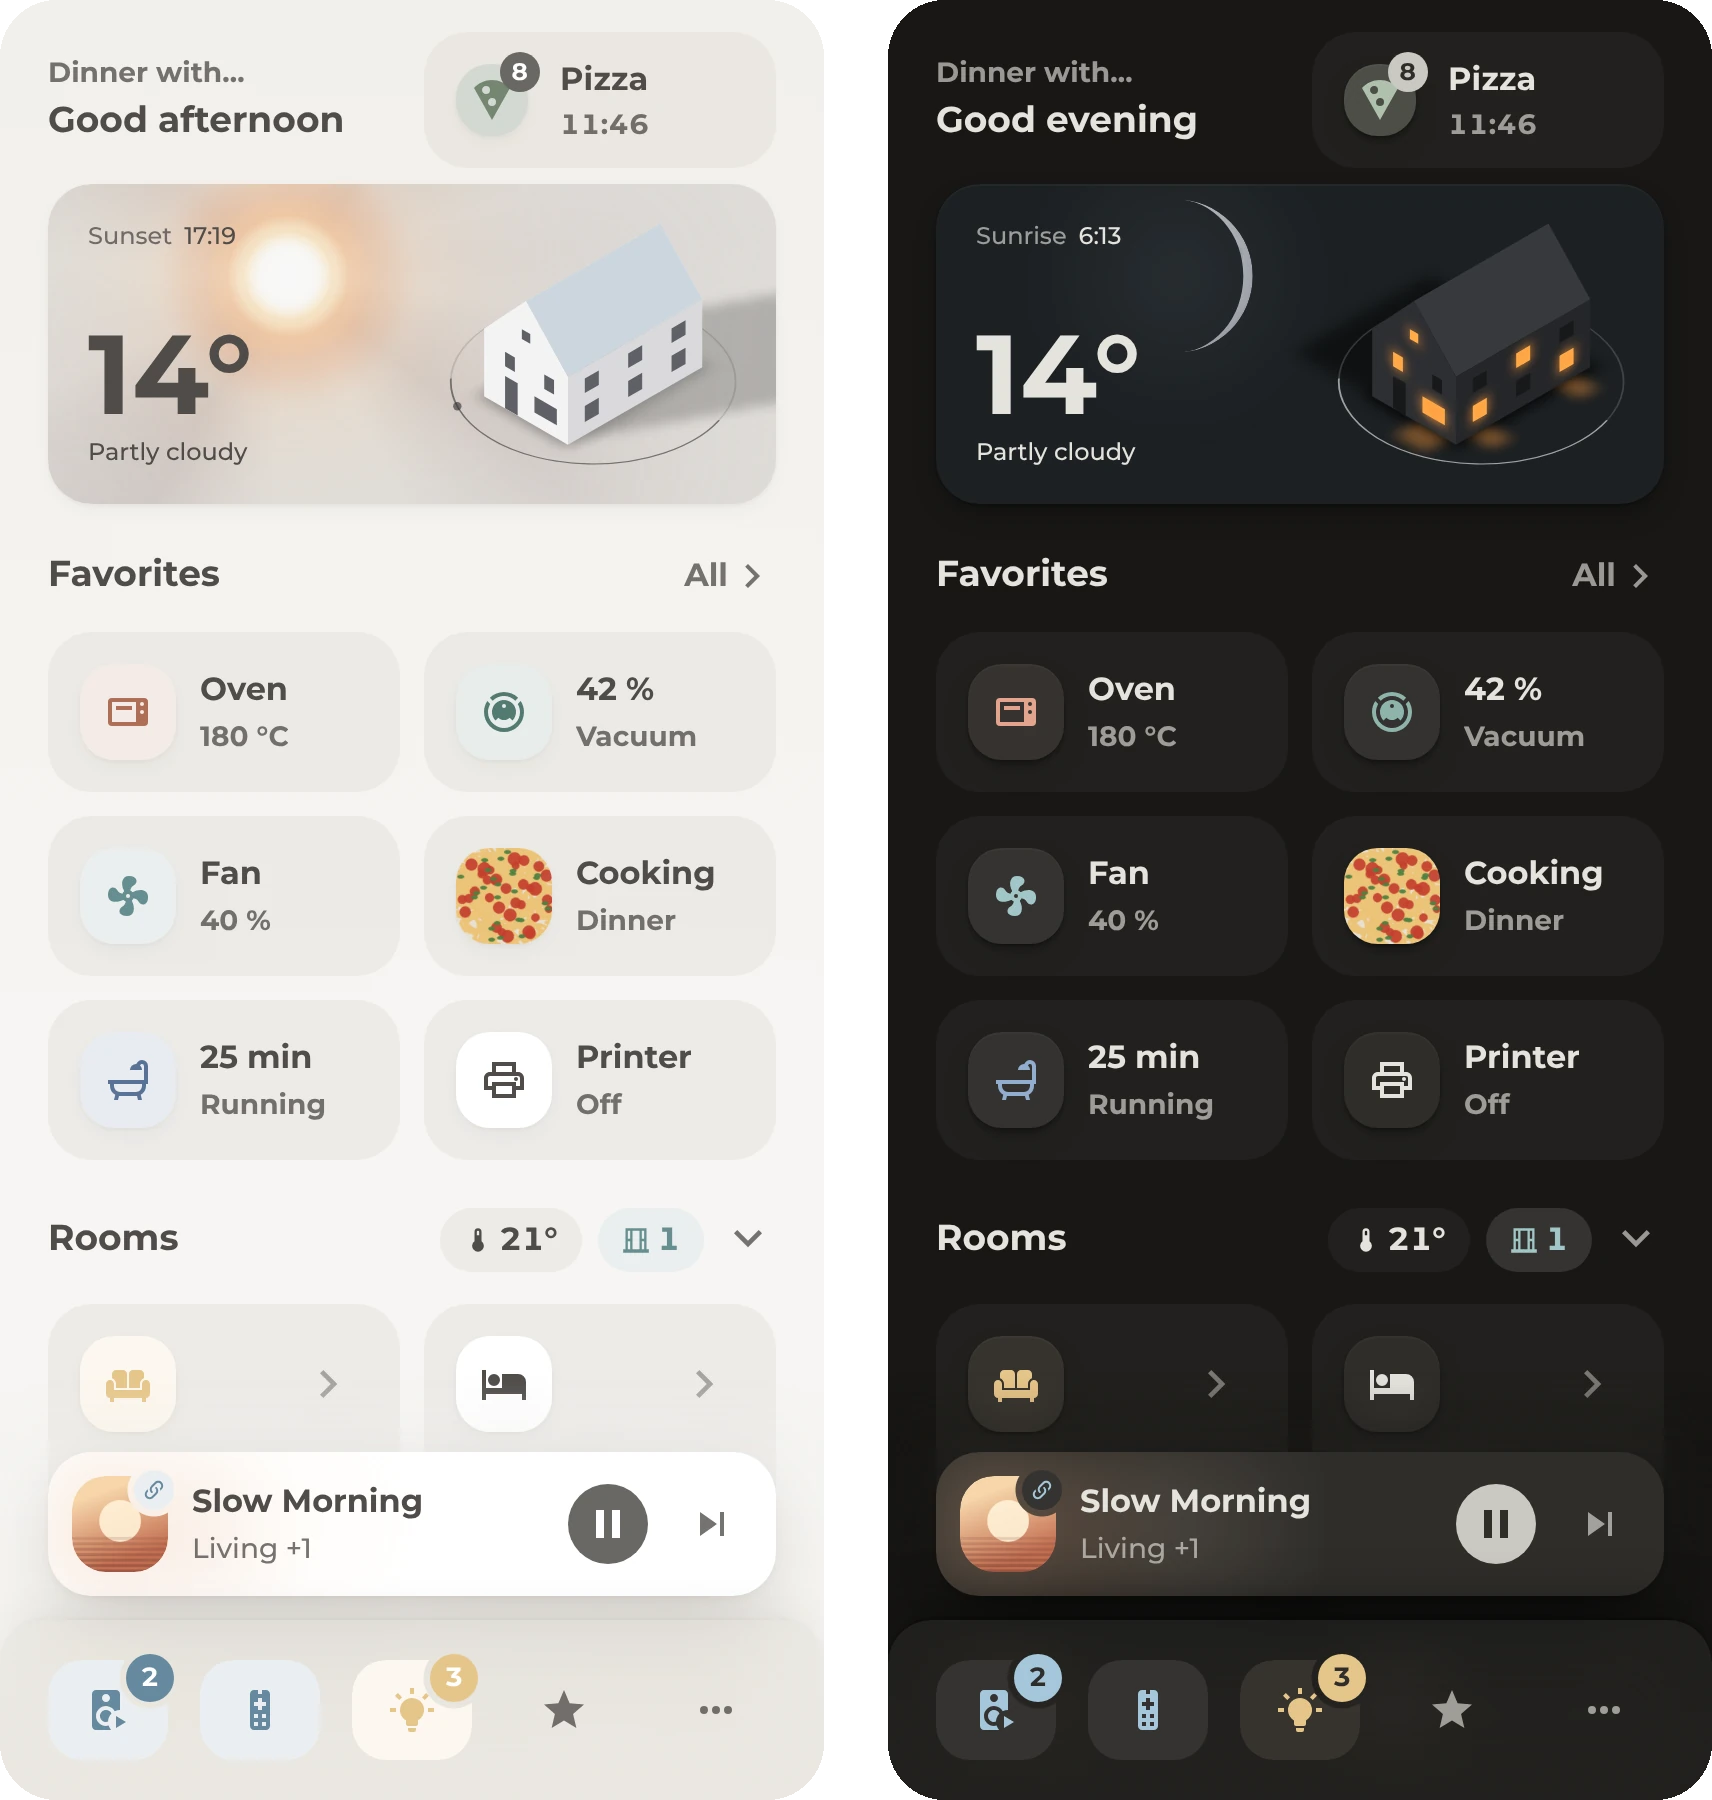
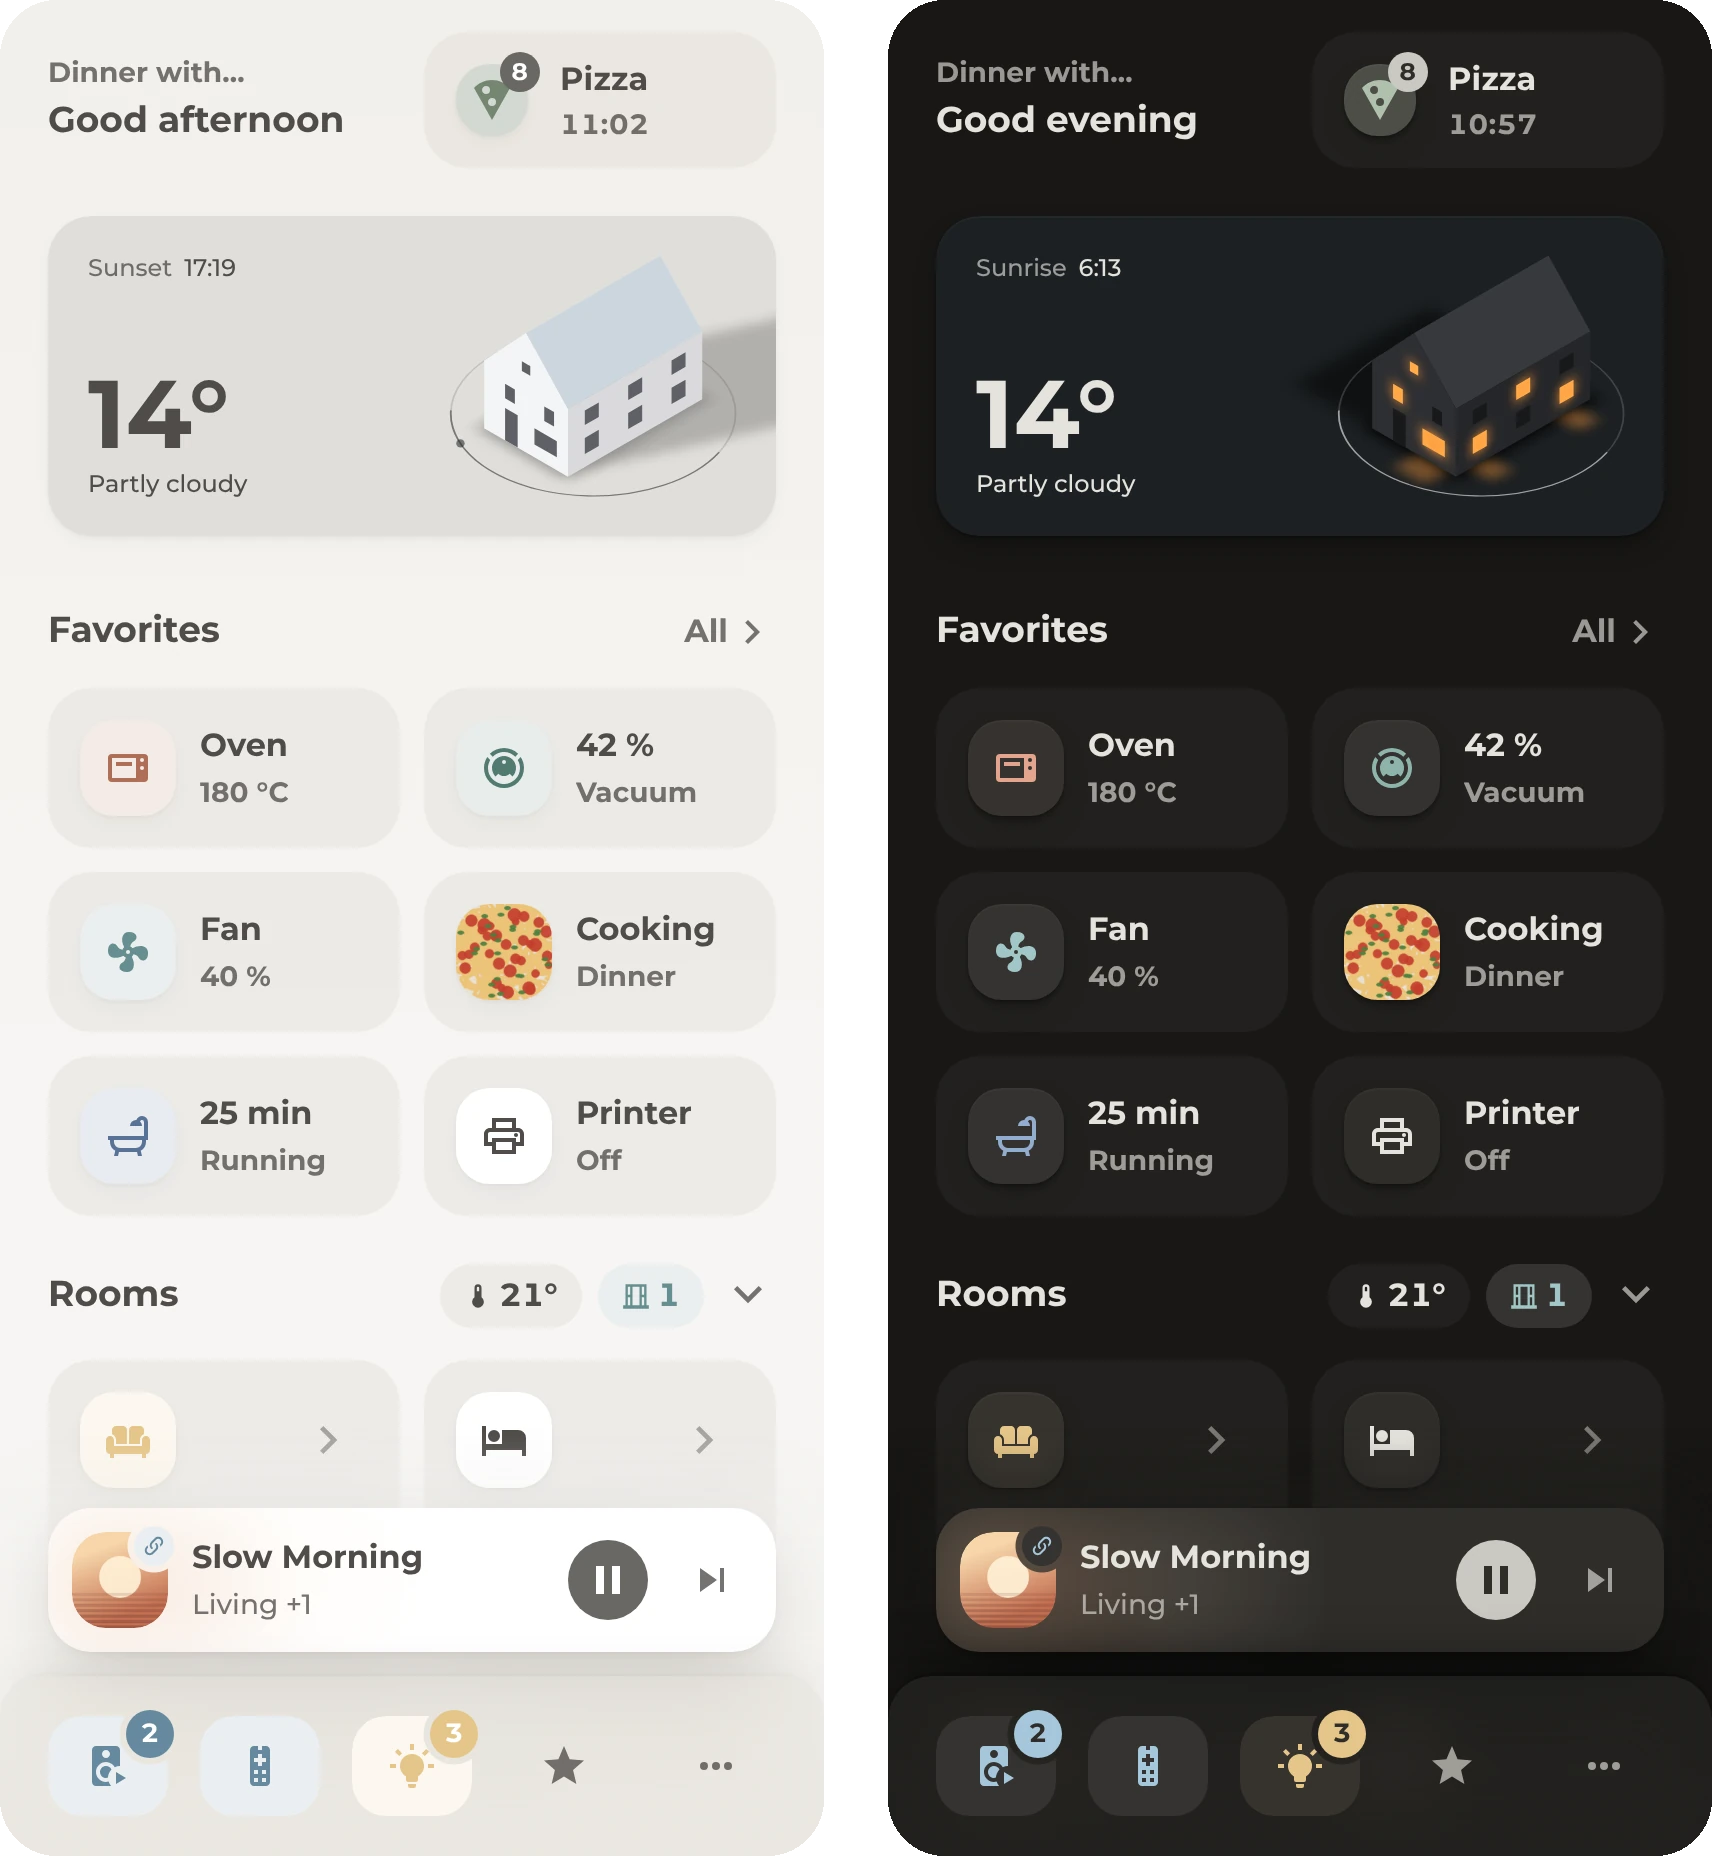
Calmer weather card, Paper Buttons Row up front
The weather card gets its offset back, drops the sun and moon, and the
temperature goes down to 48 px. The readme and docs say what the name
means: the dashboard is folded mostly out of Paper Buttons Row. The
font files in www/fonts stay under their own license.

diff --git a/README.md b/README.md
@@ -1,13 +1,13 @@
 # ◪ Origami
 
-A chill Home Assistant theme, a set of Bubble Card modules made for it, and the dashboard built from both.
+A chill Home Assistant theme, and a dashboard folded mostly out of [Paper Buttons Row](https://github.com/jcwillox/lovelace-paper-buttons-row), hence the name. Plus a set of Bubble Card modules made for the theme.
 
 <img width="760" alt="The Origami dashboard on a phone, in light and dark mode" src="https://raw.githubusercontent.com/hazymorning/origami/main/images/dashboard.webp">
 
 | | |
 | --- | --- |
 | **Theme** | Soft, warm surfaces in light and dark, and colour only where something is on. Works with any dashboard. |
-| **Dashboard** | Weather, favorites, rooms and a navbar, made for phones. Nothing jumps while it loads. |
+| **Dashboard** | Weather, favorites, rooms and a navbar for phones, mostly Paper Buttons Row. Nothing jumps while it loads. |
 | **Bubble modules** | The theme's look for Bubble Card. Still experimental. |
 
 > [!NOTE]
@@ -65,9 +65,9 @@ Open each one, confirm with **Add** if asked, then **Download**.
 | | For | |
 | --- | --- | --- |
 | [Origami](https://github.com/hazymorning/origami) | The theme | [Open in HACS](https://my.home-assistant.io/redirect/hacs_repository/?owner=hazymorning&repository=origami&category=theme) |
+| [Paper Buttons Row](https://github.com/jcwillox/lovelace-paper-buttons-row) | Most of the dashboard: greeting, menu, climate table and room cards | [Open in HACS](https://my.home-assistant.io/redirect/hacs_repository/?owner=jcwillox&repository=lovelace-paper-buttons-row&category=plugin) |
 | [Bubble Card](https://github.com/Clooos/Bubble-Card) | Favorites and section headers | [Open in HACS](https://my.home-assistant.io/redirect/hacs_repository/?owner=Clooos&repository=Bubble-Card&category=plugin) |
 | [Bubble Card Tools](https://github.com/Clooos/Bubble-Card-Tools) | Loads the Bubble modules | [Open in HACS](https://my.home-assistant.io/redirect/hacs_repository/?owner=Clooos&repository=Bubble-Card-Tools&category=integration) |
-| [Paper Buttons Row](https://github.com/jcwillox/lovelace-paper-buttons-row) | Greeting, climate table and room cards | [Open in HACS](https://my.home-assistant.io/redirect/hacs_repository/?owner=jcwillox&repository=lovelace-paper-buttons-row&category=plugin) |
 | [Navbar Card](https://github.com/joseluis9595/lovelace-navbar-card) | The bar at the bottom | [Open in HACS](https://my.home-assistant.io/redirect/hacs_repository/?owner=joseluis9595&repository=lovelace-navbar-card&category=plugin) |
 | [Origami Notifications](https://github.com/hazymorning/origami_notifications) | Notifications next to the greeting | [Open in HACS](https://my.home-assistant.io/redirect/hacs_repository/?owner=hazymorning&repository=origami_notifications&category=plugin) |
 | [Origami Weather](https://github.com/hazymorning/origami_weather) | The weather card | [Open in HACS](https://my.home-assistant.io/redirect/hacs_repository/?owner=hazymorning&repository=origami_weather&category=plugin) |
@@ -172,7 +172,7 @@ Add `https://fonts.googleapis.com/css2?family=Montserrat:wght@500;700&display=sw
 - [Dashboard parts](docs/dashboard.md): how each part works and which entities it reads
 - [Helpers](docs/helpers.md): the template sensors behind the cards
 - [Bubble modules](bubble_card/README.md): options and examples for all eleven modules
-- [Patterns](docs/patterns.md): the ideas that repeat through every card
+- [Patterns](docs/patterns.md): how Paper Buttons Row becomes cards and layouts, and the ideas behind it
 - [Theme](docs/theme.md): colour and tokens
 
 ## Status
@@ -181,3 +181,7 @@ Add `https://fonts.googleapis.com/css2?family=Montserrat:wght@500;700&display=sw
 - [x] Bubble modules, still experimental
 - [ ] Pop-ups: rooms, music, TV, favorites, lights and the rest
 - [ ] Desktop layout
+
+## License
+
+[AGPL-3.0](LICENSE). The Montserrat files in `www/fonts` keep their own [SIL Open Font License](www/fonts/OFL.txt).

diff --git a/docs/dashboard.md b/docs/dashboard.md
@@ -2,7 +2,7 @@
 
 One sections view, made for phones. The desktop layout is still a work in progress. Here's how each part works and which entities it reads. Every part starts with a comment in [`dashboard.yaml`](../dashboard/dashboard.yaml), like `# Favorites`, so you can find and copy it.
 
-Cards that show a state get it from a [helper](helpers.md) or a module, so they stay simple. Some ways of building a dashboard add lag on the first load, where you can watch the layout build itself, card-mod or template cards for example. Everything here avoids that, which sometimes leads to unusual solutions. More in [Patterns](patterns.md).
+Most cards are Paper Buttons Row, folded into cards and layouts, see [Patterns](patterns.md). Cards that show a state get it from a [helper](helpers.md) or a module, so they stay simple. Some ways of building a dashboard add lag on the first load, where you can watch the layout build itself, card-mod or template cards for example. Everything here avoids that, which sometimes leads to unusual solutions. More in [Patterns](patterns.md).
 
 [Greeting and menu](#greeting-and-menu) · [Weather](#weather) · [Favorites](#favorites) · [Rooms](#rooms) · [Navbar](#navbar)
 
@@ -34,7 +34,7 @@ An [Origami Weather](https://github.com/hazymorning/origami_weather) card: a cal
 
 <img width="800" alt="The weather card in daylight and at night" src="../images/weather.webp">
 
-- Each condition has its own background colour for light and dark mode, set in `background_thresholds`. Clouds, stars, birds, balloons and planes are off.
+- Each condition has its own background colour for light and dark mode, set in `background_thresholds`. The sun, moon, clouds, stars, birds, balloons and planes are off, for a calmer card.
 - Top left is the next sunset, or the next sunrise while the sun is down. They are two buttons with a visibility condition on `sun.sun`.
 - The large number is the weather entity's temperature. For an outdoor sensor of your own, give that text element an `entity` instead of the `attribute`.
 - The house is the card's demo house, 20 px from the top, right and bottom edge, like the text. The dashboard this comes from has a drawing of the actual home instead, with a lit window per room while its lights are on. The [Origami Weather readme](https://github.com/hazymorning/origami_weather#layouts) explains how to make one. A picture of your own needs its own offsets.

diff --git a/docs/theme.md b/docs/theme.md
@@ -10,6 +10,10 @@ Which colour a device gets is Home Assistant's own mapping, re-toned per mode. L
 
 Amber is a light colour, and dark enough for a glyph on a light page it turns brown. For that the theme has `lamp-ink` on `lamp-field`, where in light mode the light sits in the field and the glyph stays ink.
 
+## Paper Buttons Row
+
+Paper Buttons Row has its own colour variables, `pbs-button-*`. The theme points them at the text colour, so a row starts out in ink, and colour comes from the styles you give it. The `rgb` ones need a triplet like `var(--rgb-primary-text-color)`, a hex value breaks the colour.
+
 ## Tokens
 
 | Token | |
@@ -26,7 +30,7 @@ Amber is a light colour, and dark enough for a glyph on a light page it turns br
 | `tile-size`, `tile-size-lg`, `dot-size` | Icon chips, 48 and 80 px, dots 12 px |
 | `icon-size-2xs` … `icon-size-xl` | Icons, 14 to 48 px |
 | `ha-font-size-xs` … `ha-font-size-xxl` | Type, 14 to 26 px |
-| `primary-font-family` | Montserrat, weights 500 and 700 |
+| `primary-font-family` | Montserrat, weights 500 and 700, under the [SIL Open Font License](../www/fonts/OFL.txt) |
 | `duration-fast`, `duration-normal`, `duration-slow`, `ease-standard` | Motion |
 | `press-scale` | How far a button shrinks on press |
 | `blur-soft`, `blur-strong` | Header, dialogs, navbar |

diff --git a/docs/patterns.md b/docs/patterns.md
@@ -1,6 +1,6 @@
 # Patterns
 
-The same few ideas repeat through every card.
+Most of the dashboard is Paper Buttons Row, folded into cards and layouts, hence the name. The same few ideas repeat through every card.
 
 [The row is the card](#the-row-is-the-card) · [Dumb cards, smart sensors](#dumb-cards-smart-sensors) · [No layout shifts](#no-layout-shifts) · [Whole card tap targets](#whole-card-tap-targets) · [Visibility instead of logic](#visibility-instead-of-logic) · [Sorting with order](#sorting-with-order) · [Zebra stripes](#zebra-stripes) · [Morphing with scale](#morphing-with-scale)
 
